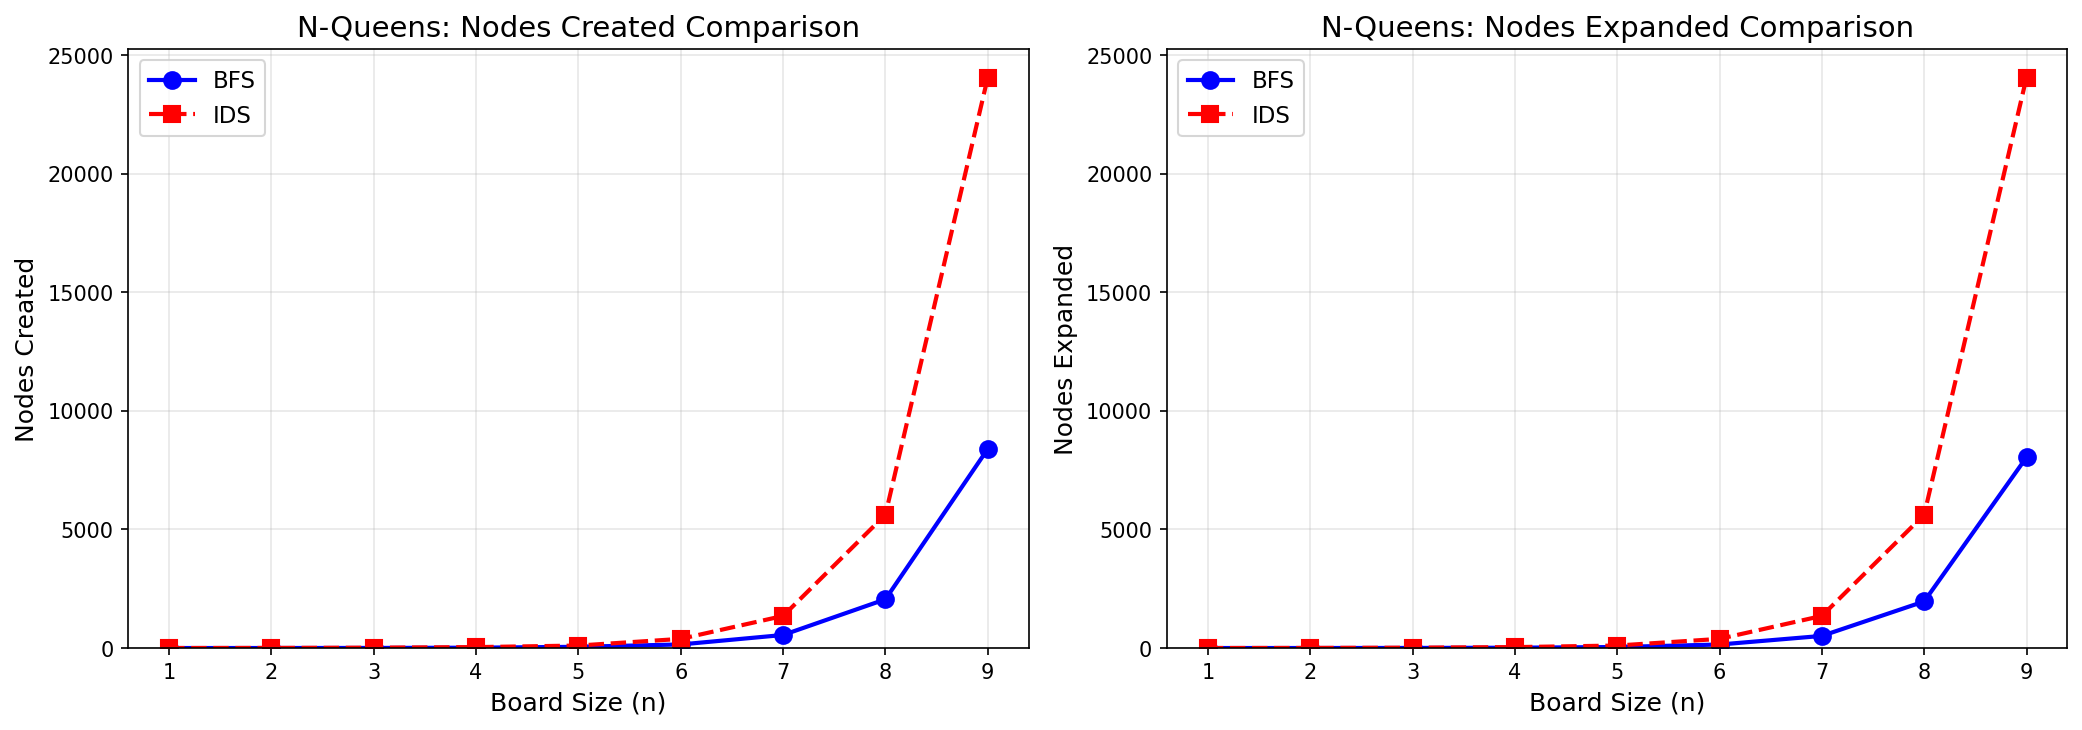
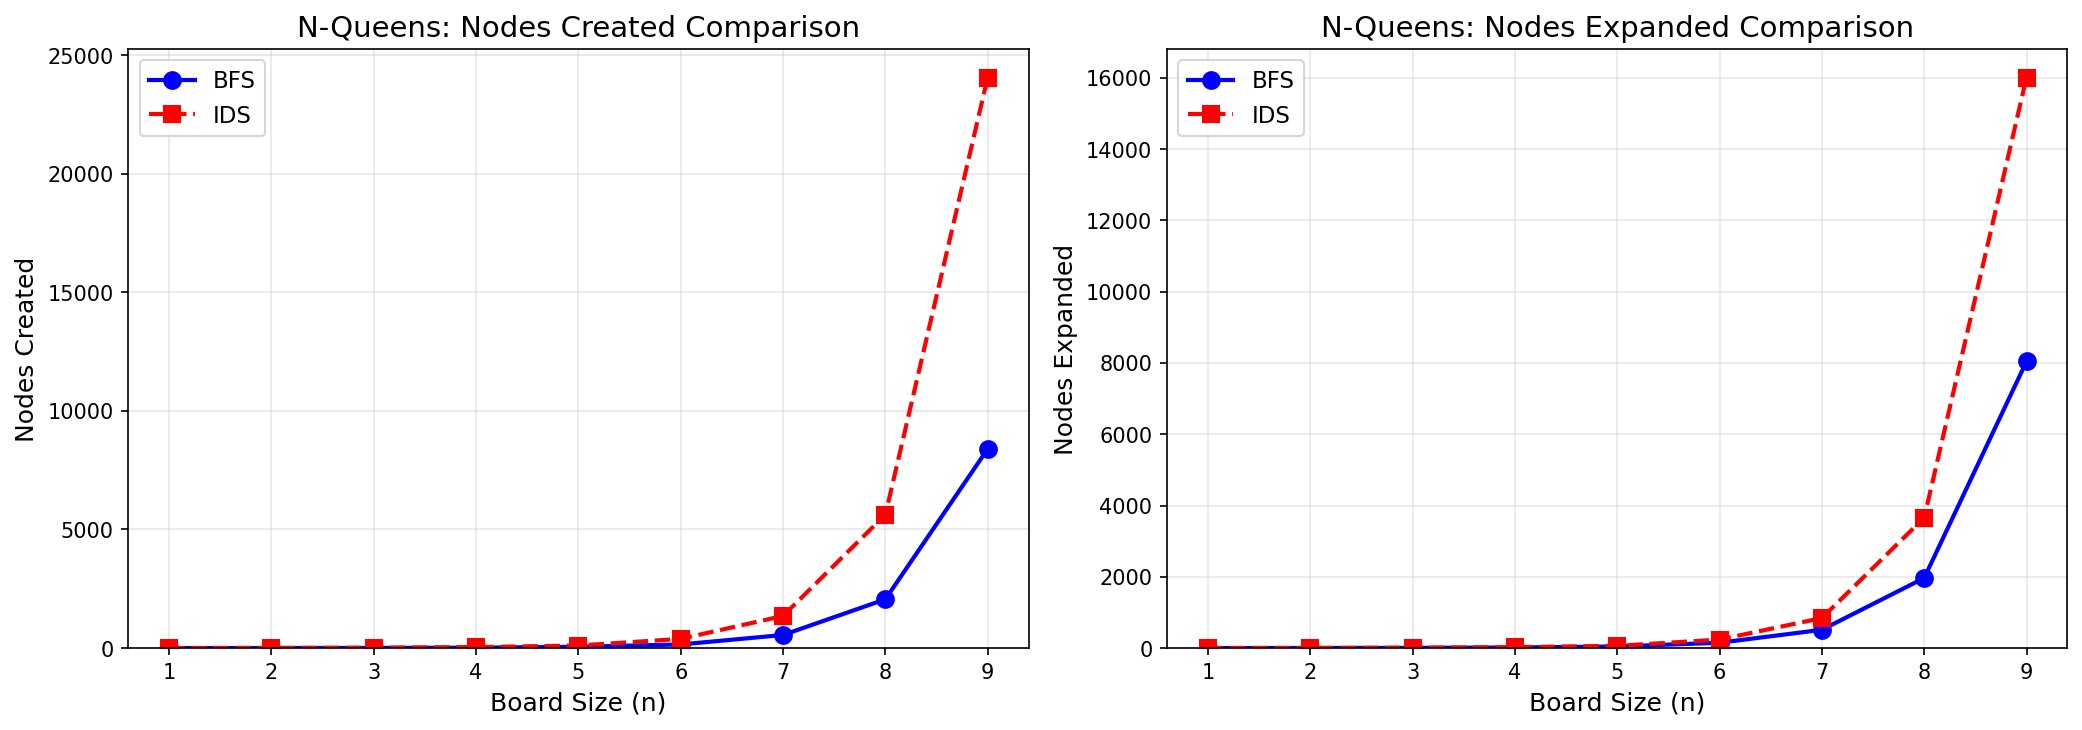
Fix IDS expanded node count to only count nodes with generated children
The expanded counter was incorrectly incremented for nodes at the depth
limit where children were not generated. Now expanded only counts nodes
whose successors were actually generated, matching the proper semantic
distinction between created (visited) and expanded (children generated).

diff --git a/n_queens_ids.py b/n_queens_ids.py
@@ -54,18 +54,17 @@ def depth_limited_search(state: tuple, n: int, depth_limit: int, stats: dict) ->
     """
     current_depth = len(state)
 
-    # Expand this node
-    stats['expanded'] += 1
-
     # Check if this is a goal state
     if is_goal(state, n):
+        stats['expanded'] += 1
         return state
 
-    # If at depth limit, don't generate successors
+    # If at depth limit, don't generate successors (visited but not expanded)
     if current_depth >= depth_limit:
         return None
 
-    # Generate and explore successors
+    # Expand this node by generating successors
+    stats['expanded'] += 1
     successors = get_successors(state, n)
 
     for successor in successors:

diff --git a/n_queens_comparison.py b/n_queens_comparison.py
@@ -15,7 +15,7 @@ bfs_expanded = [2, 3, 6, 16, 45, 150, 513, 1966, 8043]
 
 # IDS results
 ids_created = [3, 7, 17, 41, 107, 388, 1355, 5622, 24053]
-ids_expanded = [3, 7, 17, 41, 107, 388, 1355, 5622, 24053]
+ids_expanded = [2, 4, 11, 26, 63, 239, 843, 3657, 16011]
 
 # Create figure with two subplots side by side
 fig, (ax1, ax2) = plt.subplots(1, 2, figsize=(14, 5))
